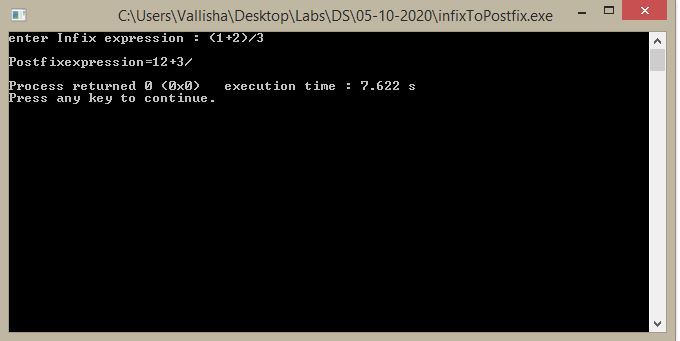
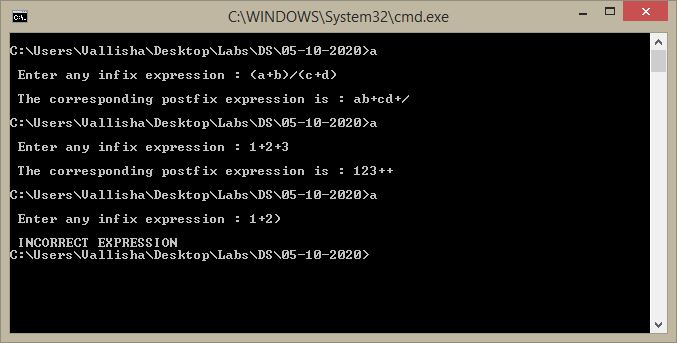
infix to postfix

diff --git a/05-10-2020/infixToPostfix.c b/05-10-2020/infixToPostfix.c
@@ -1,62 +1,109 @@
-#include<stdio.h>
-#include<ctype.h>
-#define SIZE 50
-char stack[SIZE];
+#include <stdio.h>
+#include <conio.h>
+#include <ctype.h>
+#include <string.h>
+#include <stdlib.h>
+#define MAX 100
+char st[MAX];
 int top=-1;
-push(char elem)
+void push(char st[], char);
+char pop(char st[]);
+
+void InfixtoPostfix(char source[], char target[]);
+int getPriority(char);
+int main()
 {
-stack[++top]=elem;
+    char infix[100], postfix[100];
+    printf("\n Enter any infix expression : ");
+    gets(infix);
+    strcpy(postfix, "");
+    InfixtoPostfix(infix, postfix);
+    printf("\n The corresponding postfix expression is : ");
+    puts(postfix);
+    return 0;
 }
-char pop()
+void InfixtoPostfix(char source[], char target[])
 {
- return(stack[top--]);
- }
- int pr(char symbol)
- {
- if(symbol== '^')
- {
- return(3);
- }
- else if(symbol== '*' || symbol== '/' )
- {
- return(2);
- }
- else if(symbol== '+' || symbol== '-')
- {
- return(1);
- }
- else {
- return(0);
- }
- }
- int main()
- {
- char infix[50],postfix[50],ch,elem;
- int i=0,k=0;
- printf("enter Infix expression : ");
- scanf("%s",infix);
- push('@');
- while((ch=infix[i++])!='\0' )
- {
- if(ch == '(') push(ch);
- else
- if(isalnum(ch)) postfix[k++]=ch;
- else
- if(ch==')')
- { while(stack[top] !='(')
- postfix[k++]=pop();
- elem=pop();
- }
- else
- {
- while(pr(stack[top]) >=pr(ch))
-  postfix[k++]=pop();
-  push(ch);
-  }
-  }
-  while(stack[top]!='@')
-   postfix[k++]=pop();
-   postfix[k]='\0';
-   printf("\nPostfixexpression=%s\n",postfix);
-   return 0;
-   }
+    int i=0, j=0;
+    char temp;
+    strcpy(target, "");
+    while(source[i]!='\0')
+    {
+        if(source[i]=='(')
+        {
+            push(st, source[i]);
+            i++;
+        }
+        else if(source[i] == ')')
+        {
+            while((top!=-1) && (st[top]!='('))
+            {
+                target[j] = pop(st);
+                j = j+1;
+            }
+            if(top==-1)
+            {
+                printf("\n INCORRECT EXPRESSION");
+                exit(1);
+            }
+            temp = pop(st);//remove left parenthesis
+            i = i+1;
+        }
+        else if(isdigit(source[i]) || isalpha(source[i]))
+        {
+            target[j] = source[i];
+            j+=1;
+            i+=1;
+        }
+        else if (source[i] == '+' || source[i] == '-' || source[i] == '*' || source[i] == '/' || source[i] == '%')
+        {
+            while( top!=-1 && (st[top]!= '(') && (getPriority(st[top])> getPriority(source[i])))
+            {
+                target[j] = pop(st);
+                j+=1;
+            }
+            push(st, source[i]);
+            i+=1;
+        }
+        else
+        {
+            printf("\n INCORRECT ELEMENT IN EXPRESSION");
+            exit(1);
+        }
+    }
+    while(top!=-1 && st[top]!='(')
+    {
+        target[j] = pop(st);
+        j+=1;
+    }
+    target[j]='\0';
+}
+int getPriority(char op)
+{
+    if(op=='/' || op == '*' || op=='%')
+        return 1;
+    else if(op=='+' || op=='-')
+        return 0;
+}
+void push(char st[], char val)
+{
+    if(top==MAX-1)
+        printf("\n STACK OVERFLOW");
+    else
+    {
+        top+=1;
+        st[top]=val;
+    }
+}
+char pop(char st[])
+{
+    char val=' ';
+    if(top==-1)
+        printf("\n STACK UNDERFLOW");
+    else
+    {
+        val=st[top];
+        top = top-1;
+    }
+    return val;
+}
